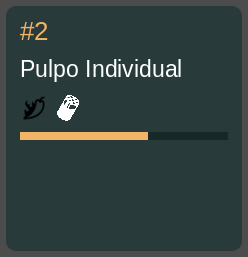
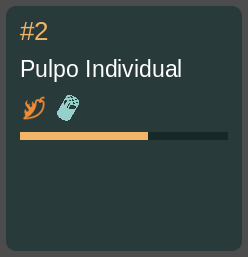
PUL-030: aplicar revisión

Changed region(s): [[0.0847, 0.3735, 0.1976, 0.4669], [0.2258, 0.3735, 0.3387, 0.4669]]

diff --git a/docs/evidence/PUL-030/README.md b/docs/evidence/PUL-030/README.md
@@ -6,7 +6,9 @@
   de 0 (`maxi(revenue, 0)`). El panel crece de 132 a 180 px para las tres secciones.
 - **Tickets** (`ui/tickets/ticket_entry.{gd,tscn}`): el texto de condimentos se sustituye por
   `%SeasoningIcons`, una fila con un `TextureRect` por condimento usando `SeasoningData.icon`
-  (tooltip con el nombre traducido). `%PatienceBar` sigue gobernada solo por
+  (sin icono: `Label` con el nombre traducido). Dulce y picante se distinguen por tinte
+  (`SeasoningData.color` → `self_modulate`: naranja / rojo) y el picante lleva además la llama
+  `small-fire.svg` superpuesta (no depender solo del tono). `%PatienceBar` sigue gobernada solo por
   `order_patience_changed`; se le fija `step = 0.01` para que decrezca de forma lineal con
   valores float (el `step` 1.0 por defecto de `Range` redondeaba a enteros).
 - **Game over** (`ui/menus/game_over.{gd,tscn}`): `%Revenue` («Recaudación: %d €») y `%Stars`
@@ -14,22 +16,23 @@
   añadidos como hijos del `Content` del `MenuPanel` instanciado.
 - **Datos** (`data/seasonings/*.tres`): asignado `icon` a los cinco condimentos
   (sal→salt, aceite→oil, cachelos→potato, pimentón y pimentón picante→pepper-hot-solid;
-  PUL-031 no trajo un icono de pimentón dulce distinto). `owns` de la ficha ampliado con
-  `godot/data/seasonings/*.tres`, como prevé la propia ficha.
+  PUL-031 no trajo un icono de pimentón dulce distinto; el SVG del pimentón pasa a `fill="#fff"`).
+  `owns` de la ficha ampliado con `godot/data/seasonings/*.tres` y otras rutas (iconos,
+  CREDITS, licencias, `tests/tools`) por decisión del coordinador en la revisión.
 
 Sin contadores propios en la UI: todo llega por señales de `EventBus`. Navegación `ui_*` y
 `tr()` intactos; textos nuevos con claves `HUD_REVENUE*` y fallback en castellano.
 
 ## Capturas (AC2)
-Generadas con `godot/ui/hud/capture_pul030.{gd,tscn}`:
-`xvfb-run -a godot --path godot res://ui/hud/capture_pul030.tscn`
+Generadas con `godot/tests/tools/capture_pul030.{gd,tscn}`:
+`xvfb-run -a godot --path godot res://tests/tools/capture_pul030.tscn`
 (ronda real con el catálogo y `RoundManager`, una entrega correcta y `board.advance(15.0)`).
 
 - `partida_hud_y_tickets.png`: vista completa — HUD con «Recaudación 11 €» tras una entrega y
   4 tickets con iconos y barras de paciencia decrecientes.
 - `hud_recaudacion.png`: detalle del HUD.
-- `ticket_iconos_y_paciencia.png`: detalle de un ticket (iconos de pimentón picante y sal,
-  barra al ~75 %).
+- `ticket_iconos_y_paciencia.png`: detalle de un ticket (iconos de condimento con tinte y barra decreciente).
+- `ticket_dulce_vs_picante.png`: pimentón dulce (naranja) frente a picante (rojo con llama).
 - `game_over_estrellas.png`: «Recaudación: 65 €» con 2 de 3 estrellas (umbrales 30/60/90).
 
 ## Tests (AC1)

diff --git a/docs/backlog/PUL-030-ui-m1-recaudacion-estrellas-iconos.md b/docs/backlog/PUL-030-ui-m1-recaudacion-estrellas-iconos.md
@@ -8,7 +8,7 @@ agent: kimi (fácil)
 deps: [PUL-027, PUL-031]
 orca_task: null
 unity_sources: []
-owns: [godot/ui/hud/**, godot/ui/tickets/**, godot/ui/menus/game_over.tscn, godot/ui/menus/game_over.gd, godot/ui/theme/**, godot/data/seasonings/*.tres, godot/tests/integration/test_hud.gd, godot/tests/integration/test_order_tickets.gd, godot/tests/integration/test_game_over.gd, docs/evidence/PUL-030/**]
+owns: [godot/ui/hud/**, godot/ui/tickets/**, godot/ui/menus/game_over.tscn, godot/ui/menus/game_over.gd, godot/ui/theme/**, godot/data/seasonings/*.tres, godot/assets/textures/icons/**, godot/assets/CREDITS.md, docs/assets/licenses-pul-030.md, godot/tests/tools/**, godot/tests/unit/test_data_integrity.gd, godot/tests/integration/test_hud.gd, godot/tests/integration/test_order_tickets.gd, godot/tests/integration/test_game_over.gd, docs/evidence/PUL-030/**]
 touches_scenes: [godot/ui/hud/hud.tscn, godot/ui/tickets/order_ticket.tscn, godot/ui/tickets/ticket_entry.tscn, godot/ui/menus/game_over.tscn]
 ---
 
@@ -44,7 +44,7 @@ M1, `entrega-y-puntuacion.md` AC9–AC11, `comandas.md` AC4, `partida-5-min.md` 
 4. Game over: `%Revenue` + `%Stars` (3 `TextureRect` star_full/star_empty) en el `Content` del
    `MenuPanel`; `game_over.gd` los rellena desde `RoundResult`.
 5. `icon` asignado en los 5 `data/seasonings/*.tres` (owns ampliado en la ficha).
-6. Capturas con `ui/hud/capture_pul030.tscn` bajo xvfb-run (ronda real, entrega y avance de
+6. Capturas con `tests/tools/capture_pul030.tscn` bajo xvfb-run (ronda real, entrega y avance de
    paciencia); `tools/verify.sh` y `check_owns` antes de cerrar.
 
 ## Evidence

diff --git a/docs/assets/licenses-pul-030.md b/docs/assets/licenses-pul-030.md
@@ -1,0 +1,11 @@
+# Licencias de assets (PUL-030)
+
+Regla D16: en el proyecto Godot solo entra lo que tiene licencia confirmada. Formato de `licenses.md`;
+estas filas se integrarán allí al cerrar la oleada.
+
+## Confirmados
+
+| Asset (origen) | Destino en `godot/` | Licencia | Atribución requerida |
+|---|---|---|---|
+| https://game-icons.net/1x1/lorc/small-fire.html («Small fire», Lorc; verificado contra https://raw.githubusercontent.com/game-icons/icons/master/lorc/small-fire.svg, sin el fondo negro) | `assets/textures/icons/small-fire.svg` | CC BY 3.0 | Sí: «Small fire» por Lorc, game-icons.net |
+| `assets/textures/icons/pepper-hot-solid.svg` (ya listado en `licenses.md`): solo se añade `fill="#fff"` | `assets/textures/icons/pepper-hot-solid.svg` | MIT (o Good Boy License) | Sí: Icons8, Line Awesome |

diff --git a/godot/assets/CREDITS.md b/godot/assets/CREDITS.md
@@ -15,6 +15,9 @@ Detalle por fichero en `docs/assets/licenses.md` (y `licenses-pul-009.md`, `lice
   - «Round star» (star_full.svg) — https://game-icons.net/1x1/delapouite/round-star.html
   - star_empty.svg es una modificación de «Round star»: solo el contorno.
   - En los cuatro se elimina el fondo negro. Licencia: https://creativecommons.org/licenses/by/3.0/
+- **Icono de Game-icons.net para PUL-030** (`textures/icons/small-fire.svg`), CC BY 3.0, por Lorc:
+  - «Small fire» — https://game-icons.net/1x1/lorc/small-fire.html (se elimina el fondo negro).
+  - Licencia: https://creativecommons.org/licenses/by/3.0/
 - **Liberation Sans** (`fonts/LiberationSans.ttf`): SIL Open Font License 1.1, texto en `fonts/OFL.txt`.
 
 ## Sin atribución obligatoria (CC0), citados por cortesía
